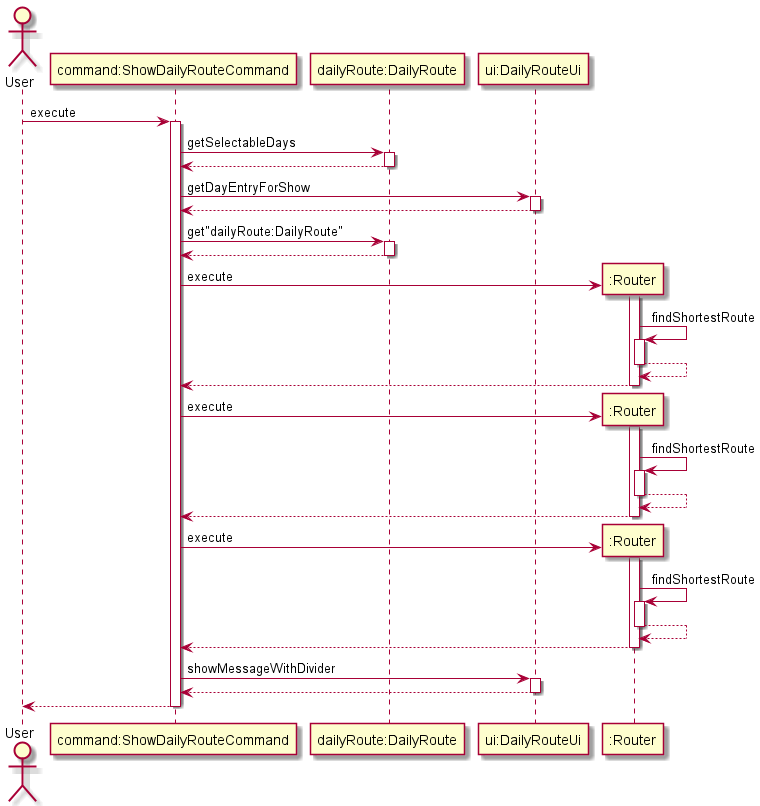
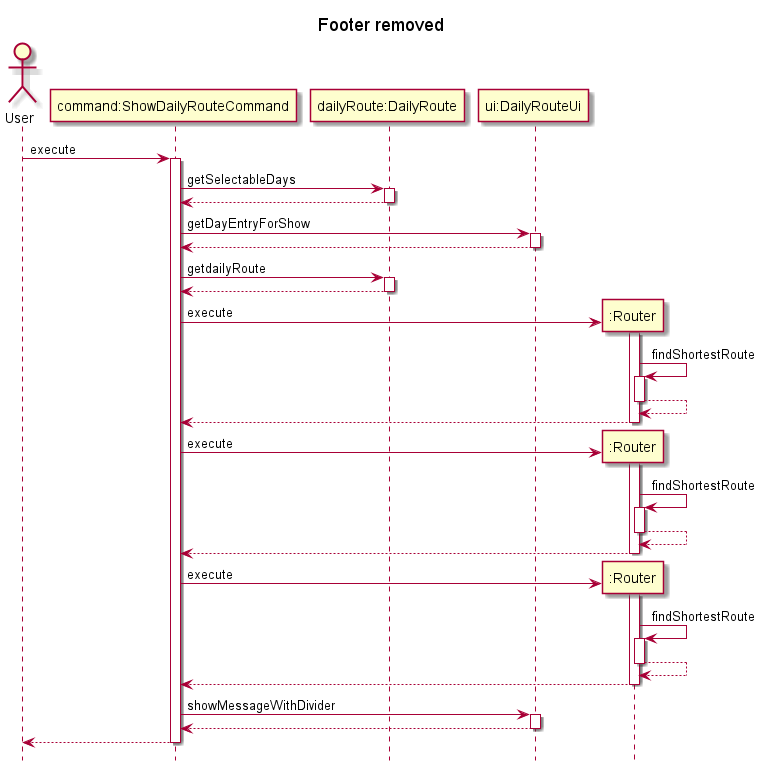
fixed checkstyle and uml diagrams

diff --git a/src/main/java/seedu/duke/command/dailyroutecommand/AddDailyRouteCommand.java b/src/main/java/seedu/duke/command/dailyroutecommand/AddDailyRouteCommand.java
@@ -24,7 +24,7 @@ public class AddDailyRouteCommand extends Command {
             String day = validDays.get(index);
             ArrayList<String> schedule = ui.getScheduleInfo();
             dailyRoute.addDailyRoute(day, schedule);
-            if(schedule.size() == 0){
+            if (schedule.size() == 0) {
                 MESSAGE_SUCCESS = "Got it! Successfully cleared %s's schedule!";
             }
             ui.showMessageWithDivider(String.format(MESSAGE_SUCCESS, day));

diff --git a/src/main/java/seedu/duke/data/DailyRoute.java b/src/main/java/seedu/duke/data/DailyRoute.java
@@ -24,11 +24,7 @@ public class DailyRoute {
     public void addDailyRoute(String day, ArrayList<String> blocks) {
         dailyRoutes.replace(day, blocks);
         int index = days.indexOf(day);
-        if(blocks.size() != 0){
-            selectableDays[index] = true;
-        }else{
-            selectableDays[index] = false;
-        }
+        selectableDays[index] = blocks.size() != 0;
 
     }
 

diff --git a/src/main/java/seedu/duke/command/dailyroutecommand/ShowDailyRouteCommand.java b/src/main/java/seedu/duke/command/dailyroutecommand/ShowDailyRouteCommand.java
@@ -19,7 +19,7 @@ public class ShowDailyRouteCommand extends Command {
     @Override
     public void execute() {
         ArrayList<String> selectableDays = dailyRoute.getSelectableDays();
-        if(selectableDays.size() == 0){
+        if (selectableDays.size() == 0) {
             ui.showMessageWithDivider("There are no daily routes planned!");
             return;
         }

diff --git a/docs/UserGuide.md b/docs/UserGuide.md
@@ -211,7 +211,9 @@ Format : `add day → DAY_ENTRY → BLOCK/END`
 - You will then be prompted to enter the location of the activities(`BLOCK`) of the day one at
   a time.
 
-- NUSMaze will continuously ask for locations until you input ``.
+- NUSMaze will continuously ask for locations until you input `END`.
+
+- If `END` is input as the first block,the schedule of the day selected will be cleared.
 
 ### 4.5.2 Viewing daily route
 Shows the generated route for the schedule of the selected day, if applicable.<br>
